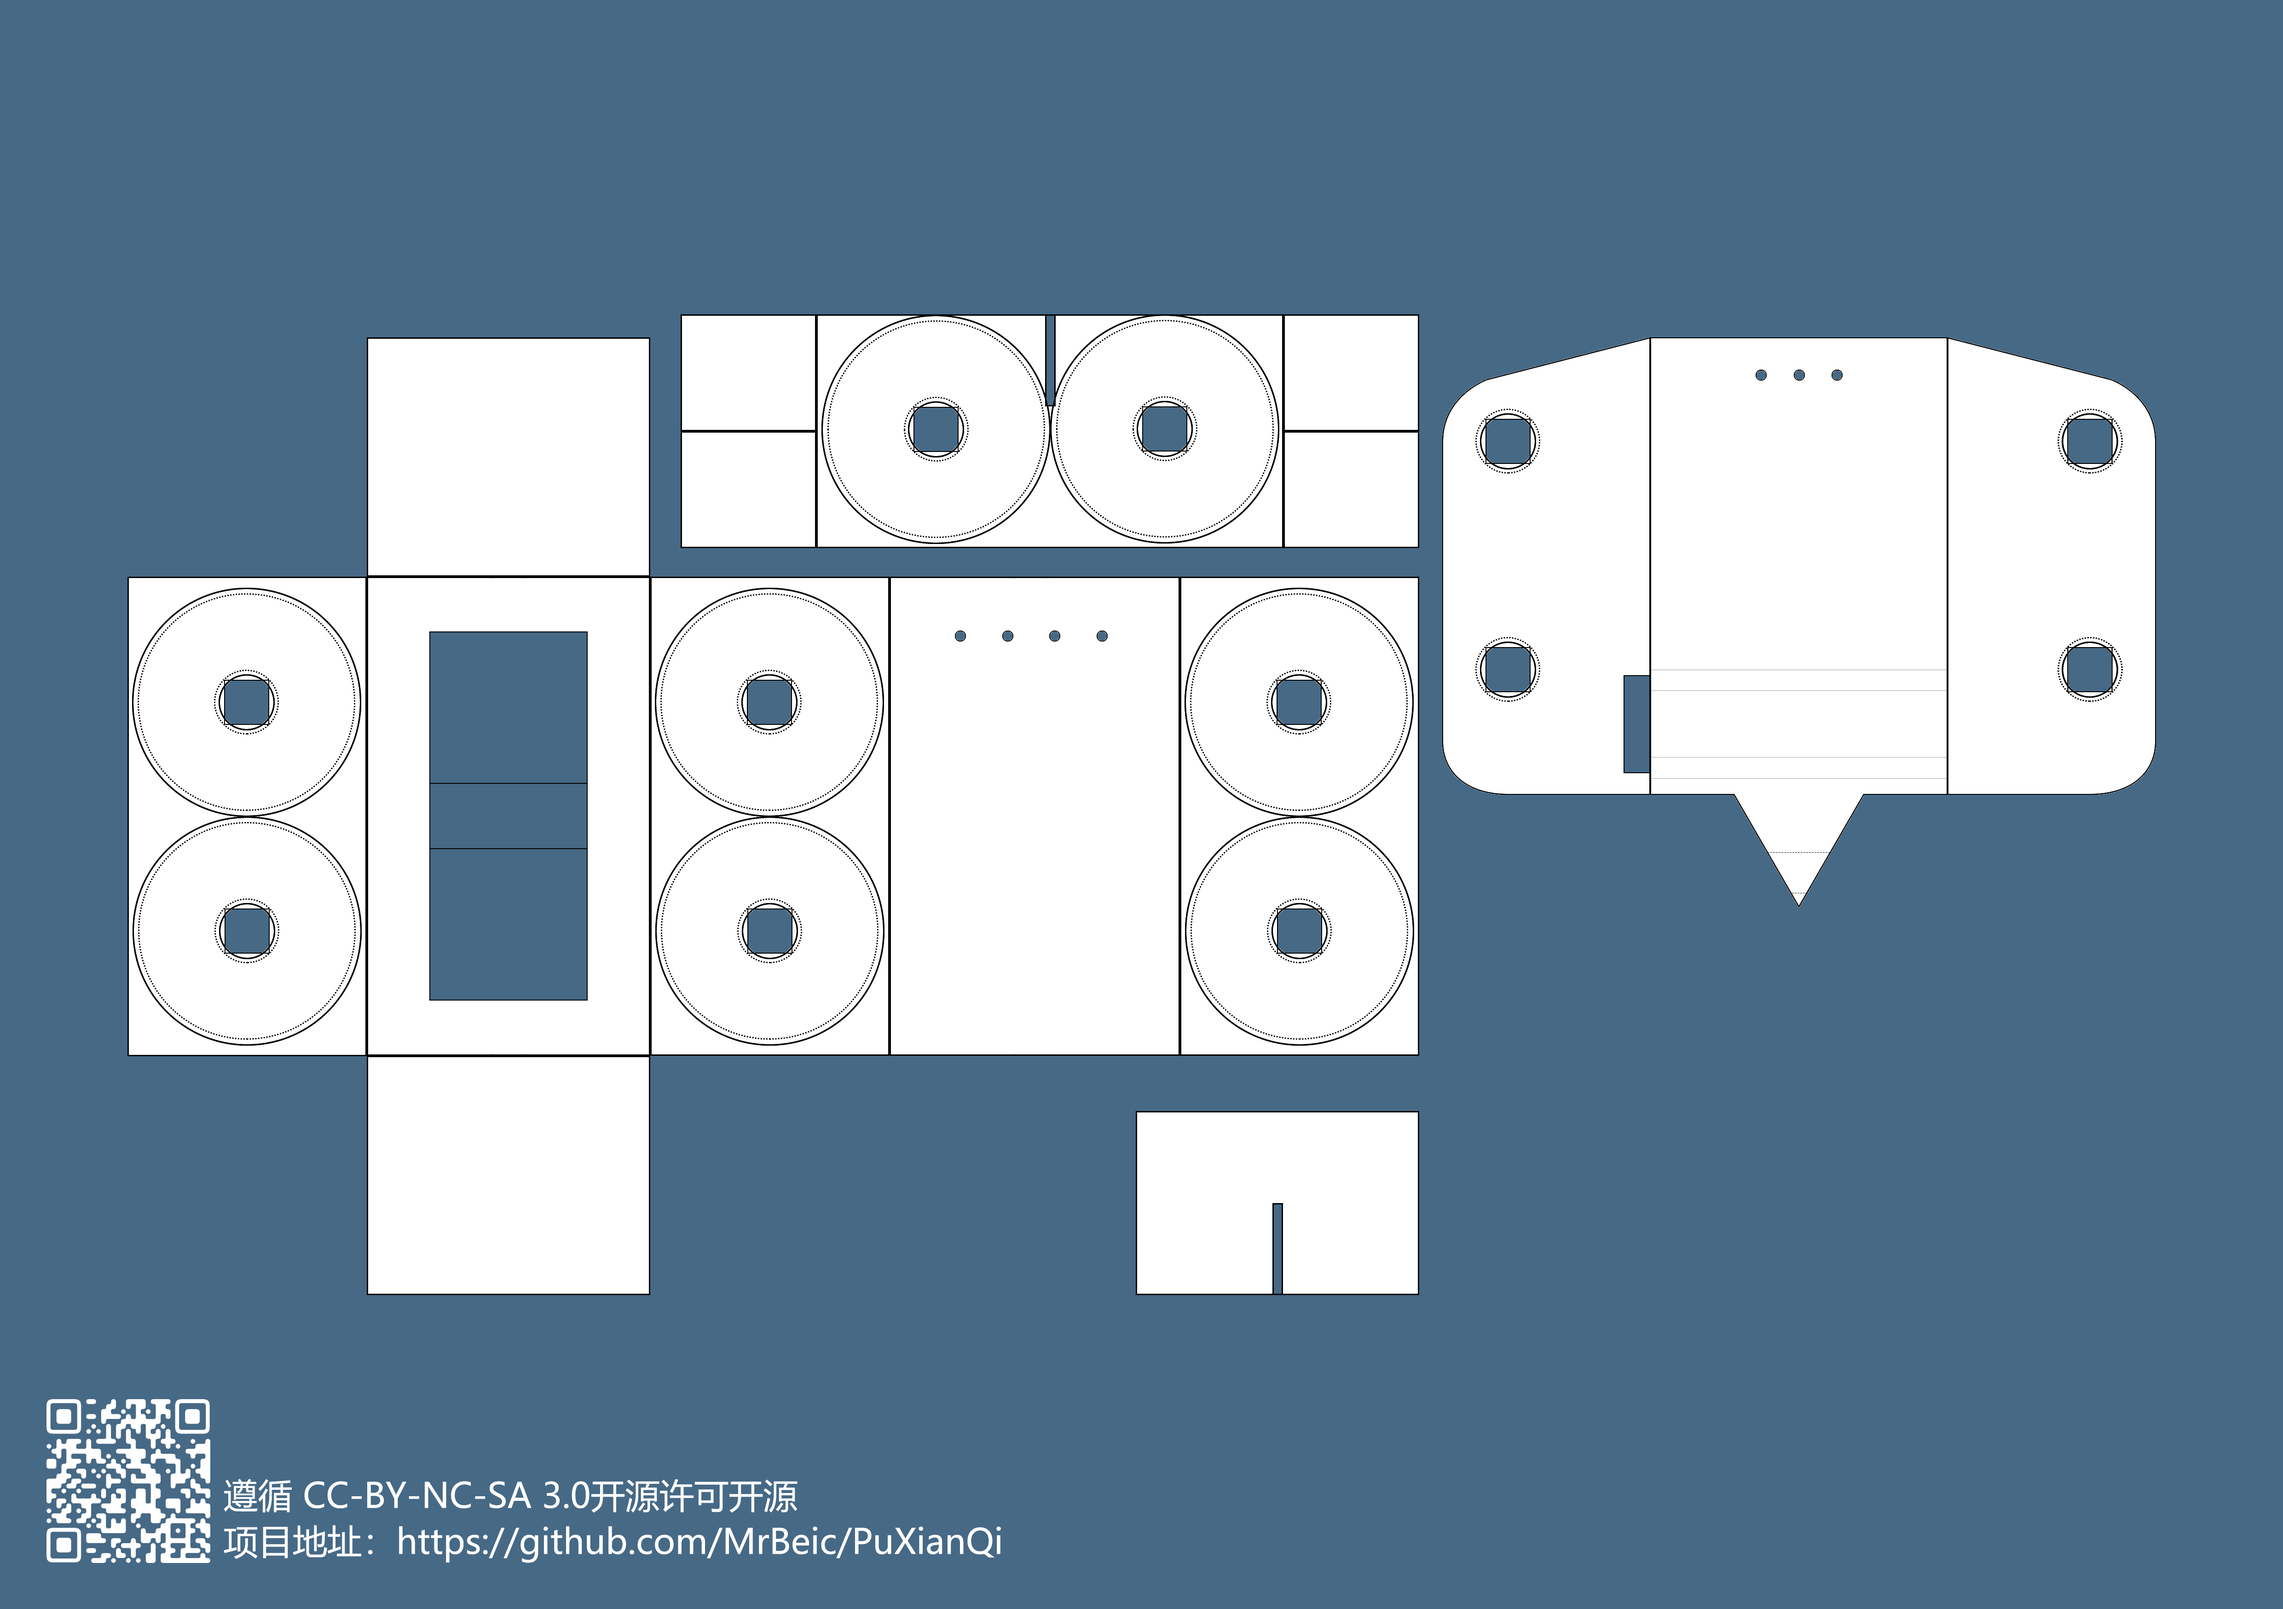
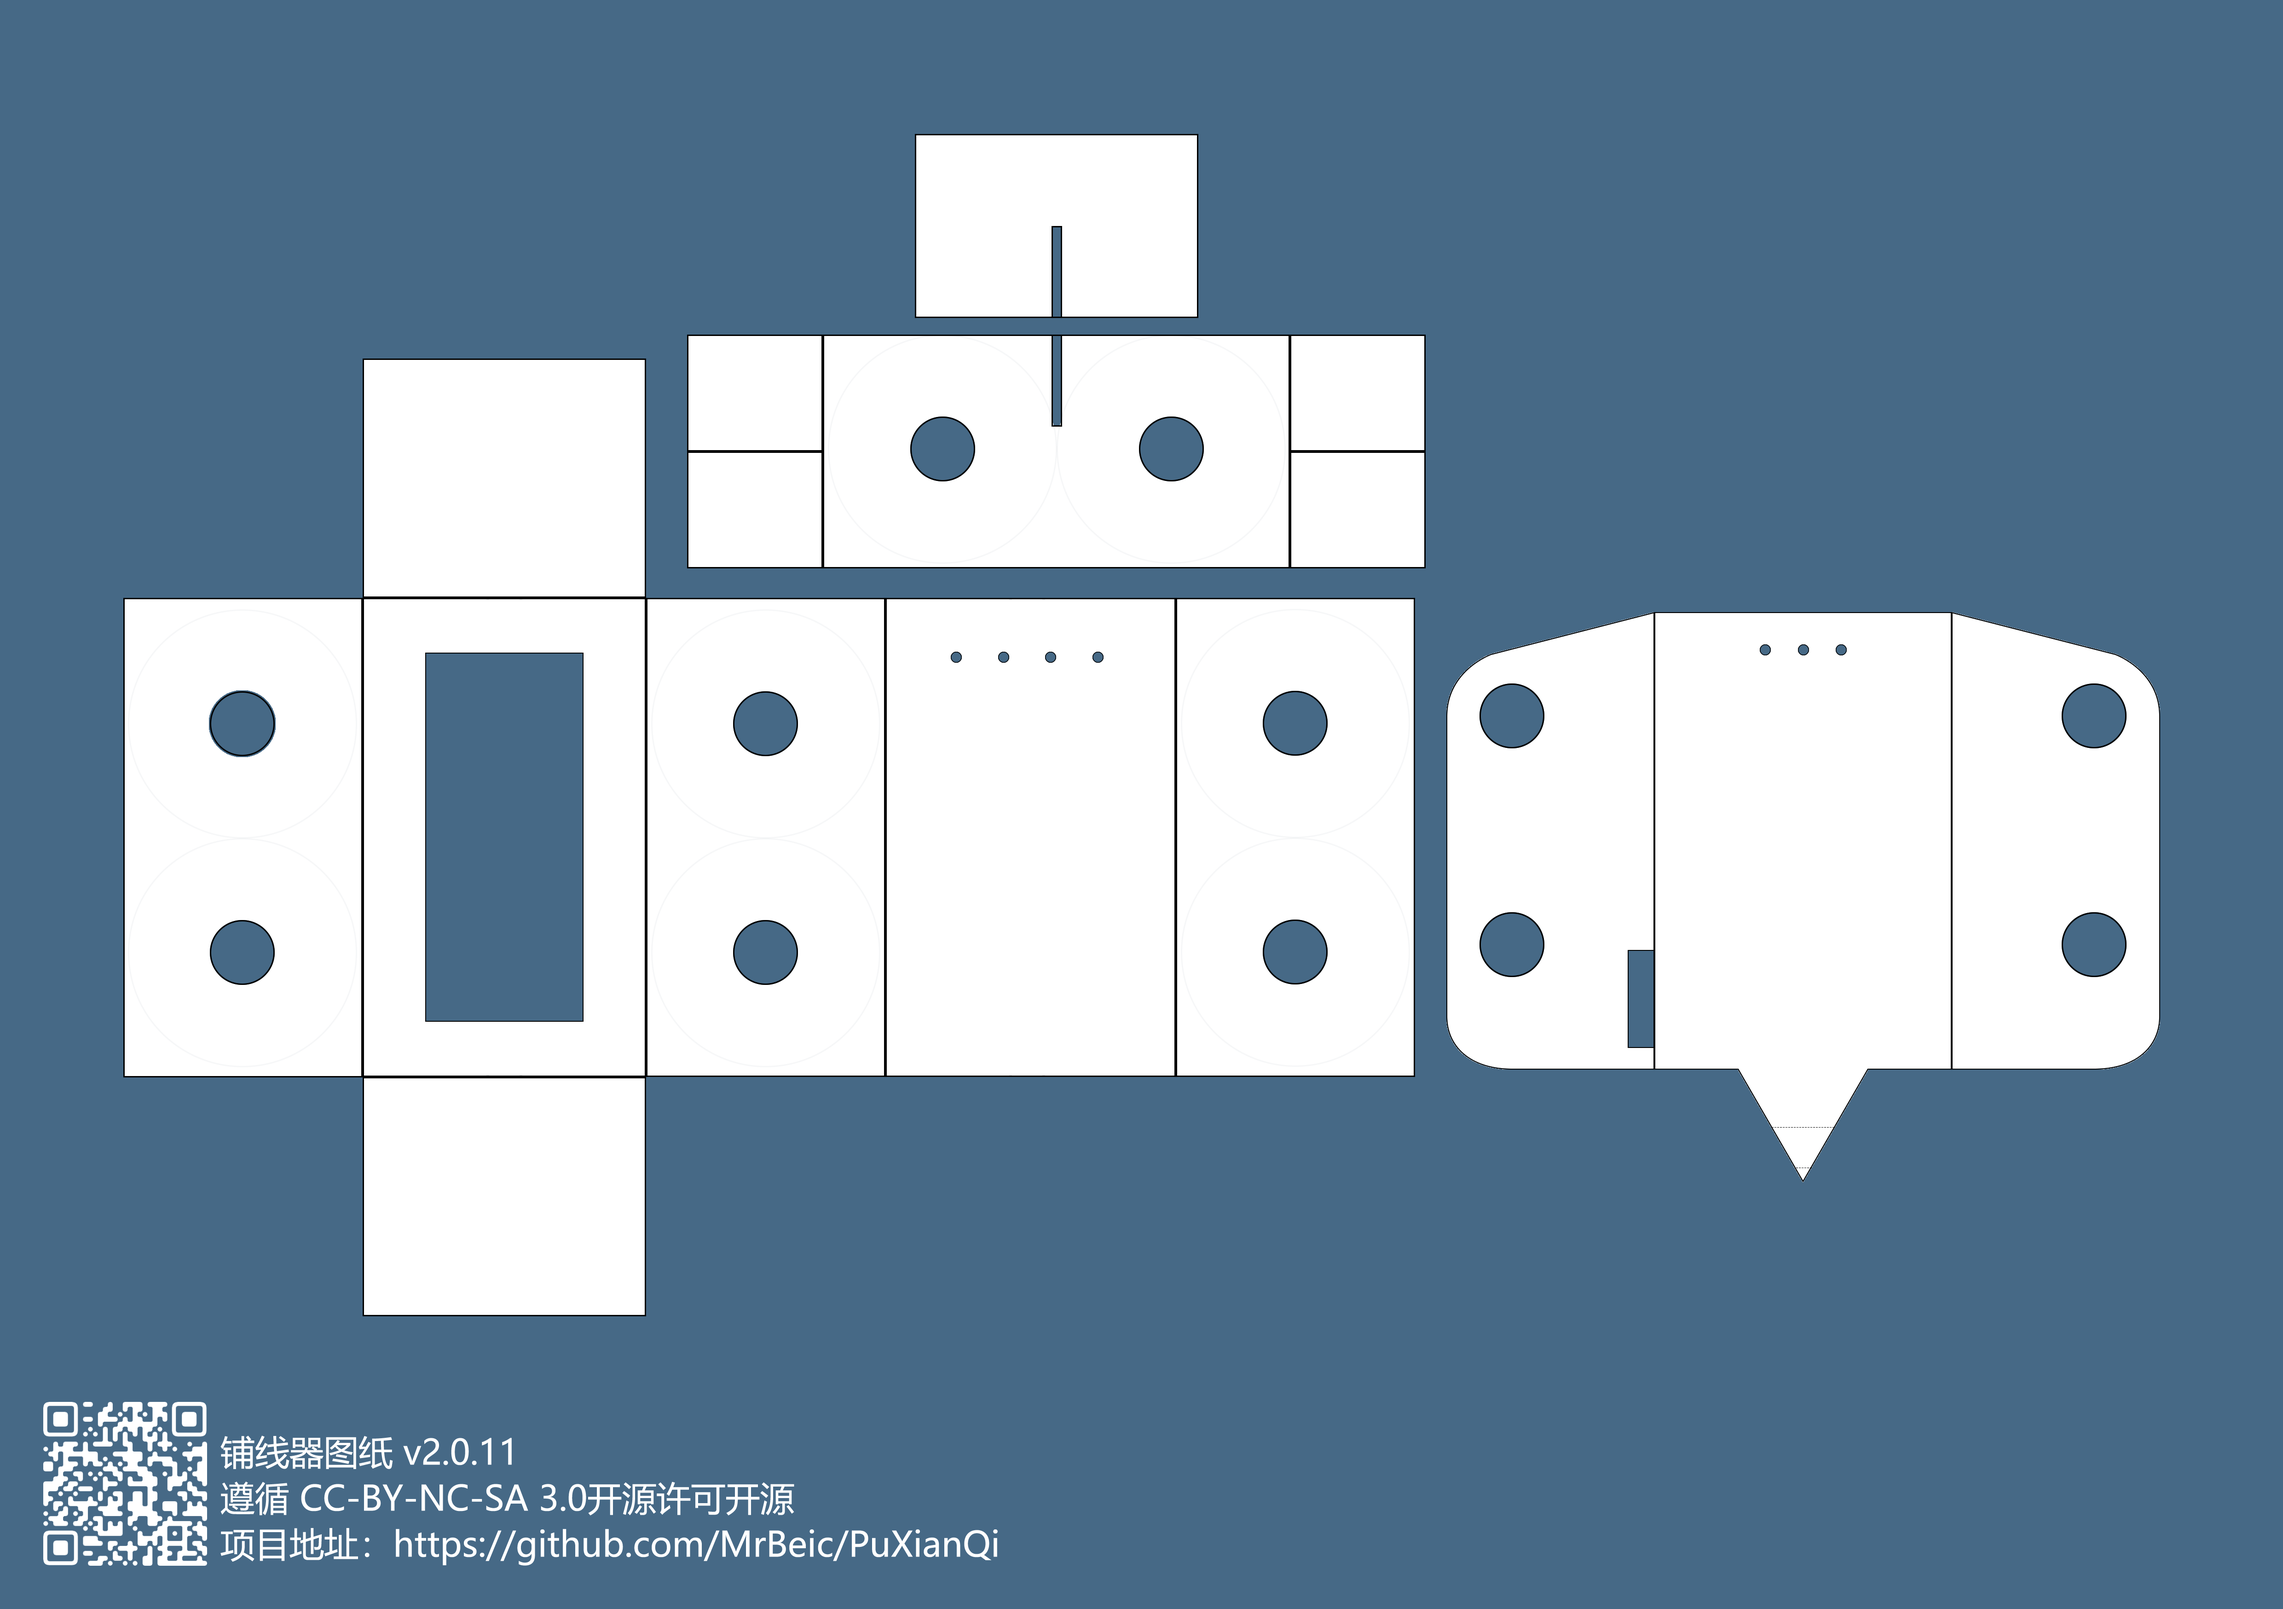
v2.0.11

diff --git a/README.md b/README.md
@@ -63,3 +63,7 @@ CC-BY-NC-SA 3.0 开源许可介绍：https://creativecommons.org/licenses/by-nc-
 #### v2.0.8 ~ v2.0.10 2024-03-28 00:34:25
 
 	简化内部部件，优化细节
+
+#### v2.0.11 2024-03-29 02:42:44
+
+	减少不必要的图形
